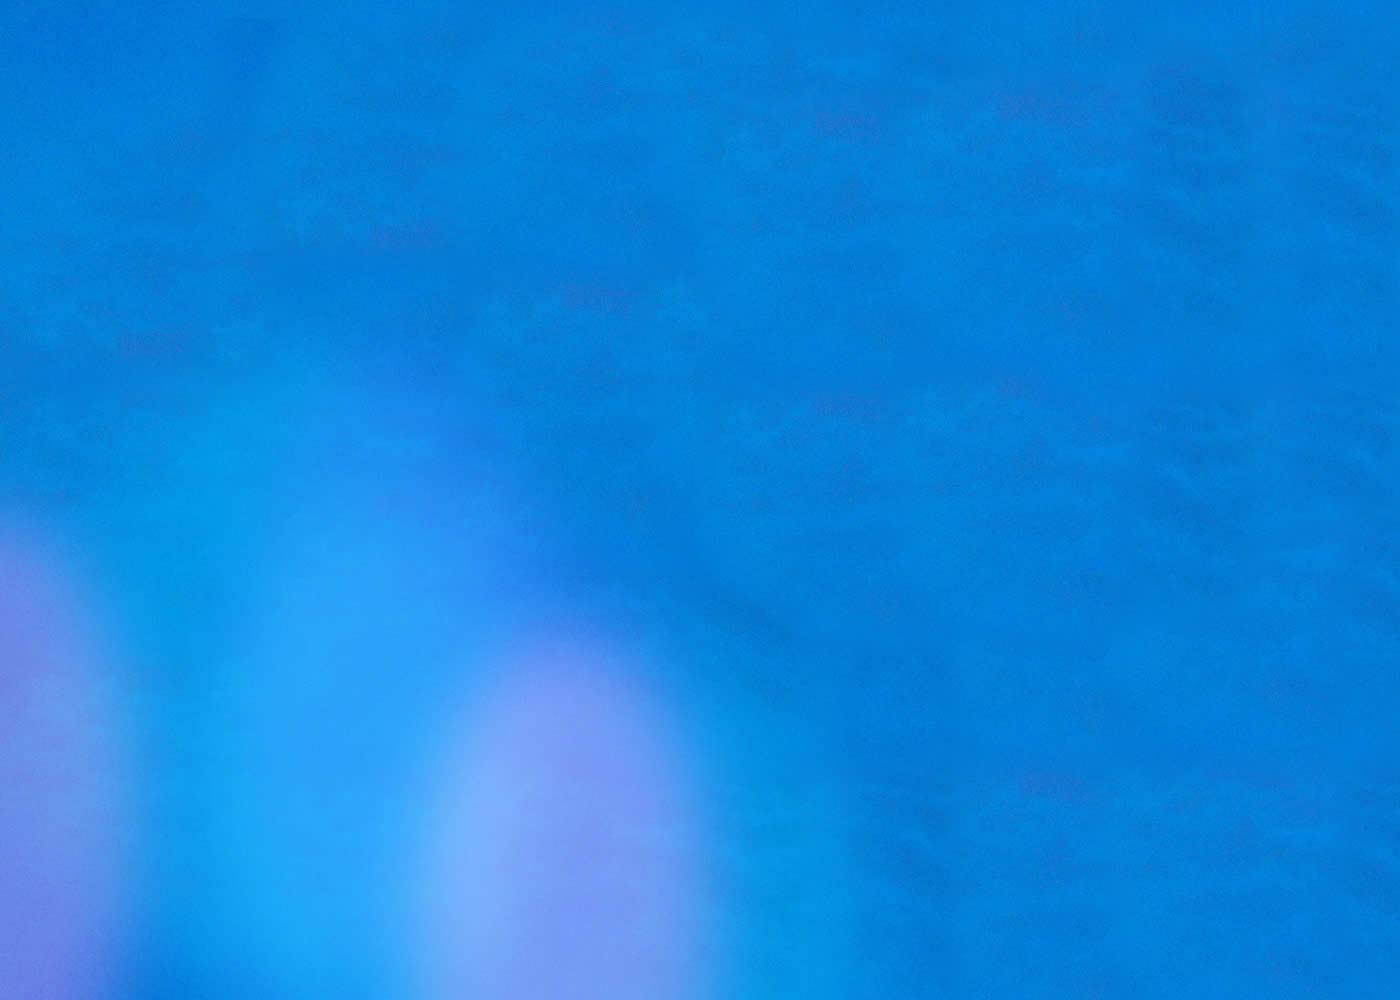
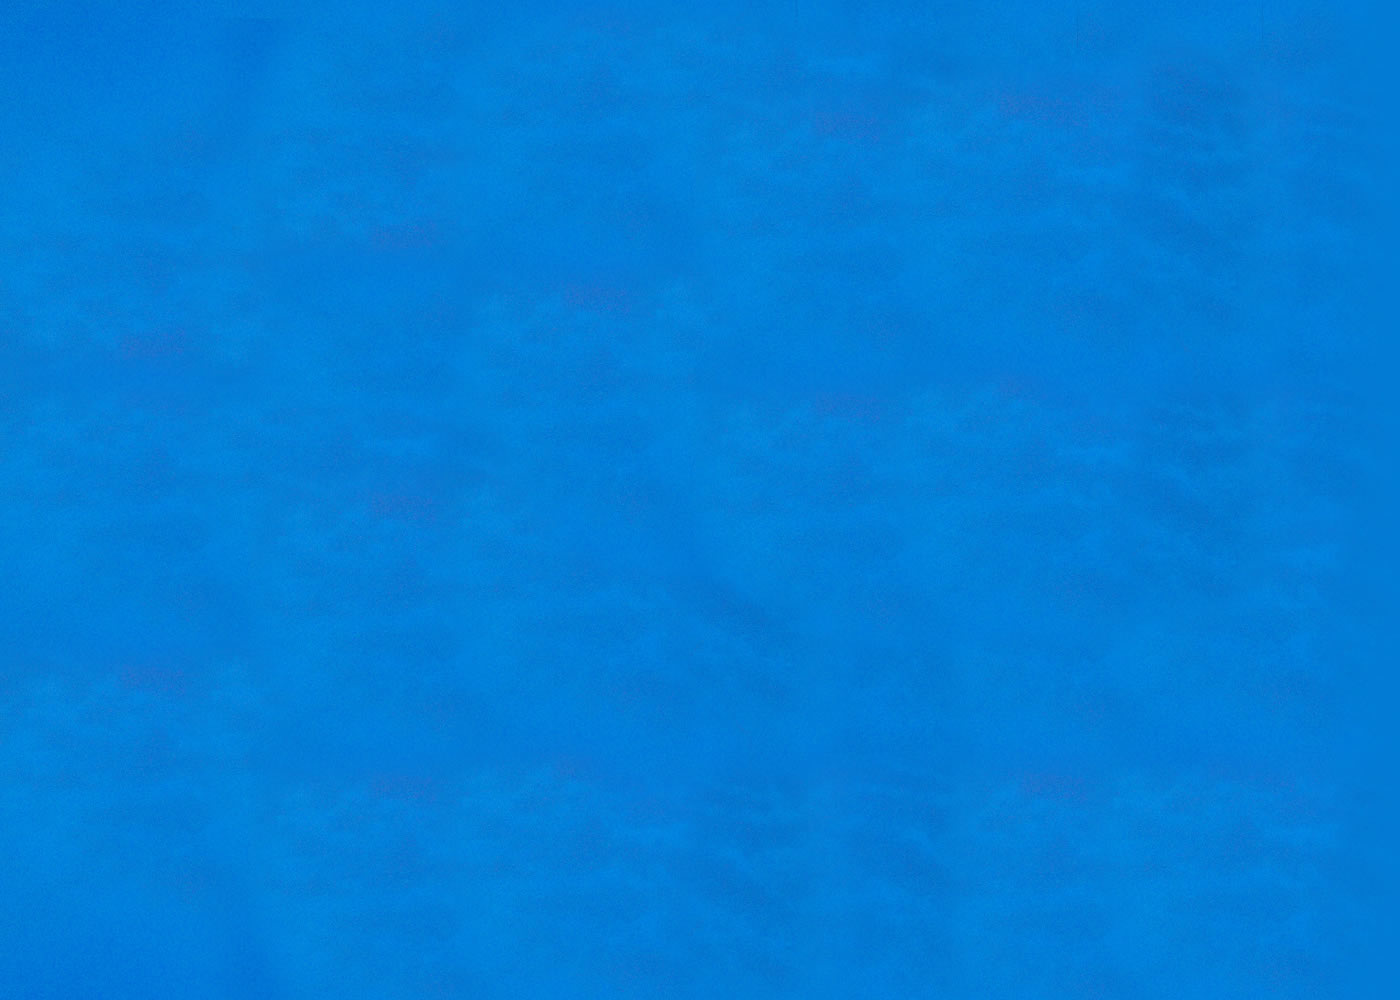
updating clouds/some transition for monument scene

Changed region(s): [[0.0, 0.403, 0.5836, 1.0]]

diff --git a/css/main.css b/css/main.css
@@ -311,34 +311,14 @@ audio { display: none; }
 
 /* ===== Scene 5 - Drummers ===== */
 
-#clouds-1 { position: absolute; width: 1800px; height: 376px; background: url('../img/scene5/clouds-1.png') no-repeat 0 0;left:0; top: -20px; }
-#clouds-2 { position: absolute; width: 849px; height: 403px; background: url('../img/scene5/clouds-2.png') no-repeat 0 0;left:400px; top: -120px; }
-#monument { position: absolute; width: 618px; height: 1000px; background: url('../img/scene5/monument.png') no-repeat 0 0;left:0px; top: 20px; }
-#monument-lights { position: absolute; width: 252px; height: 702px; background: url('../img/scene5/monument-lights.png') no-repeat 0 0;left: 130px; top: 126px; }
+#clouds-1 { position: absolute; width: 1341px; height: 406px; background: url('../img/scene5/clouds-hi.png') no-repeat 0 0;left:0; bottom: 300px; }
+#monument { position: absolute; width: 618px; height: 1000px; background: url('../img/scene5/monument.png') no-repeat 0 0;left:0px; bottom: -600px; /*top: 20px;*/ }
 #textbox-scene5 { position: absolute; width: 432px; height: 177px; background: url('../img/scene5/text-5.png') no-repeat 0 0;left: 50%; margin-left:  -177px; top: 30px; z-index: 50; opacity: 0;}
-#symbols { position: absolute; width: 1363px; height: 585px; background: url('../img/scene5/symbols.png') no-repeat 0 0; right:10px; bottom: 30px;}
+/*#symbols { position: absolute; width: 1363px; height: 585px; background: url('../img/scene5/symbols.png') no-repeat 0 0; right:10px; bottom: 30px;}*/
 #feeling-it { position: absolute; width: 88px; height: 76px; background: url('../img/scene5/feeling-it.png') no-repeat 0 0; right:320px; bottom: 350px; opacity: 0;}
 #didgeri-do { position: absolute; width: 95px; height: 91px; background: url('../img/scene5/didgeri-do.png') no-repeat 0 0; right:500px; bottom: 270px; opacity: 0;}
 
-#drummers {  position: absolute; bottom: -80px; right:100px ; width: 857px; height: 490px; background: url('../img/scene5/drummers-sprite.png') no-repeat; background-position: 0px 0px; opacity: 0;  }
-#drummers.drummers1 { background-position: 0 0; }
-#drummers.drummers2 { background-position: 0 -490px; }
-#drummers.drummers3 { background-position: 0 -980px; }
-#drummers.drummers4 { background-position: 0 -1470px; }
-#drummers.drummers5 { background-position: 0 -1960px; }
-#drummers.drummers6 { background-position: 0 -2450px; }
-#drummers.drummers7 { background-position: 0 -2940px; }
-#drummers.drummers8 { background-position: 0 -3430px; }
-#drummers.drummers9 { background-position: 0 -3920px; }
-#drummers.drummers10 { background-position: 0 -4410px; }
-#drummers.drummers11 { background-position: 0 -4900px; }
-#drummers.drummers12 { background-position: 0 -5390px; }
-#drummers.drummers13 { background-position: 0 -5880px; }
-#drummers.drummers14 { background-position: 0 -6370px; }
-#drummers.drummers15 { background-position: 0 -6860px; }
-#drummers.drummers16 { background-position: 0 -7340px; }
-
-#drummers {  position: absolute; bottom: 0px; right:100px ; background: url('../img/scene5/drummers-sprite.png') no-repeat; background-position: 0px 0px; opacity: 0;  }
+#drummers {  position: absolute; bottom: -300px;  right:100px ; background: url('../img/scene5/drummers-sprite.png') no-repeat; background-position: 0px 0px;  }
 #drummers.drummers1 { width: 825px; height: 442px; background-position: -0px -2265px; }
 #drummers.drummers2 { width: 825px; height: 442px; background-position: -1672px -1812px; }
 #drummers.drummers3 { width: 825px; height: 442px; background-position: -1672px -1359px; }

diff --git a/js/main.js b/js/main.js
@@ -398,6 +398,10 @@ window.onload = function() {
 			{id:document.getElementById("bg-inner"), start: 4.75, end: 4.99, x:0, y: -100, type:"translate"},
 			{id:document.getElementById("second-bg"), start: 4.75, end: 4.99, x:0, y: -100, type:"bgShift"},
 			{id:document.getElementById("poker-bg"), start: 4.75, end: 4.99, x:0, y: -100, type:"bgShift"},
+			{id:document.getElementById("monumentbg"), start: 4.85, end: 4.99, x:0, y: -50, type:"bgShift"},
+			{id:document.getElementById("monument"), start: 4.85, end: 4.99, x: 0, y: -400, type:"translate"},
+			{id:document.getElementById("drummers"), start: 4.85, end: 4.99, x: 0, y: -300, type:"translate"},
+			{id:document.getElementById("clouds-1"), start: 4.85, end: 4.99, x: 0, y: -80, type:"translate"},
 			
 
 		
@@ -405,12 +409,11 @@ window.onload = function() {
 		
 		[ 	//scene 5
 			
-		  {id:document.getElementById("drummers"), start: 5., end: 5.06, x:1, y: 0, type:"opacity"},
+		  // {id:document.getElementById("drummers"), start: 5., end: 5.06, x:1, y: 0, type:"opacity"},
 			{id:document.getElementById("textbox-scene5"), start: 5.2, end: 5.4, x: 1, y: 0, type:"opacity"},
 			{id:document.getElementById("clouds-1"), start: 5.0, end: 5.99, x: 300, y: 20, type:"translate"},
-			{id:document.getElementById("clouds-2"), start: 5.0, end: 5.99, x: 100, y: 5, type:"translate"},
 			{id:document.getElementById("monument"), start: 5.0, end: 5.99, x: 0, y: -150, type:"translate"},
-			{id:document.getElementById("monument-lights"), start: 5.0, end: 5.99, x: 0, y: -150, type:"translate"},
+			// {id:document.getElementById("monument-lights"), start: 5.0, end: 5.99, x: 0, y: -150, type:"translate"},
 			{id:document.getElementById("feeling-it"), start: 5.45, end: 5.5, x:1, y: 0, type:"opacity"},
 	
 		], 
@@ -459,7 +462,7 @@ window.onload = function() {
 			{id:document.getElementById("big-fish"), start: 8.0, end: 8.99, x: -500, y: 20, type:"translate"},
 			{id:document.getElementById("text-aquarium"), start: 8.4, end: 8.5, x: 1, y: 0, type:"opacity"},
 			{id:document.getElementById("text-aquarium"), start: 8.8, end: 8.85, x: -1, y: 0, type:"opacity"},
-			{id:document.getElementById("shark"), start: 8.65, end: 8.99, x: -3000, y: 0, type:"translate"}
+			{id:document.getElementById("shark"), start: 8.65, end: 8.99, x: 2400, y: 0, type:"translate"}
 		],
 
 		 [ //scene 9 - truck

diff --git a/index.html b/index.html
@@ -106,14 +106,12 @@
       <audio id="audio5" controls="false">
         <source src="audio/Drum-Circle_LOOP.mp3" type="audio/mp3">
       </audio>
-      <div class="bg">
+      <div id="monumentbg" class="bg">
         <div class="animation">
           <div id="textbox-scene5"></div>
         </div>
         <div id="clouds-1"></div>
-        <div id="clouds-2"></div>
         <div id="monument"></div>
-        <div id="monument-lights"></div>
         <div id="symbols"></div>
         <div id="feeling-it"></div>
         <div id="drummers"></div>
